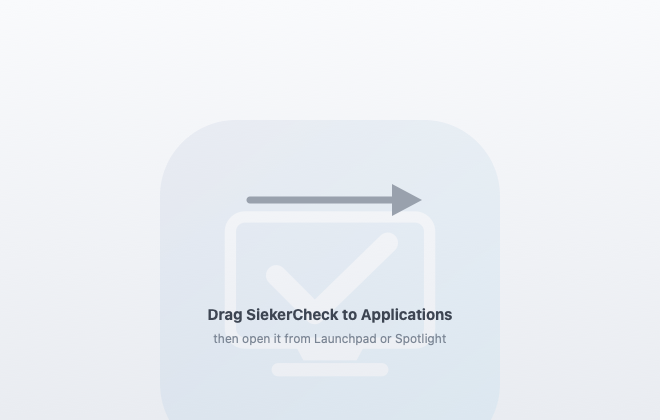
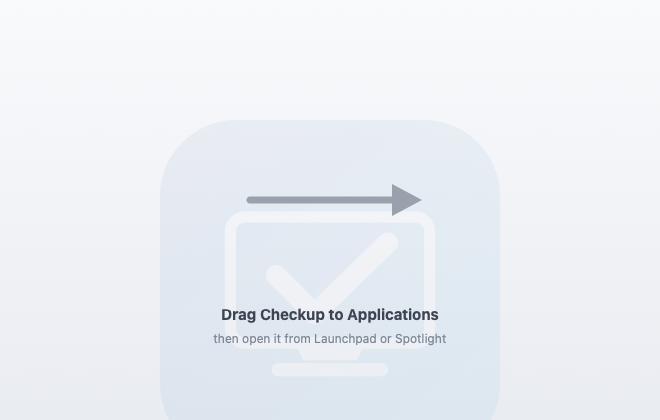
Rename to Checkup and fix the Network screen on Windows
The app is now Checkup throughout: bundle, identifier com.checkup.app, sources, installers and docs. The Windows renderer treated the async network IPC call as an array, so Promise.map threw and the Network screen never rendered; it now awaits the bridge. Adds the overview screenshot to the README.

Changed region(s): [[0.303, 0.7119, 0.697, 0.7738]]

diff --git a/windows/renderer/app.js b/windows/renderer/app.js
@@ -1,4 +1,4 @@
-// SiekerCheck renderer. Everything here uses browser APIs so it behaves the
+// Checkup renderer. Everything here uses browser APIs so it behaves the
 // same on Windows and, during development, anywhere else Electron runs.
 
 const CHECKS = [
@@ -26,7 +26,7 @@ const $ = (id) => document.getElementById(id);
 // browser - which is how most of it gets developed and checked - the OS-facing
 // calls report themselves unavailable instead of taking the whole page down.
 const unavailable = (what) => async () => ({ ok: false, error: what + ' needs the desktop app.' });
-const bridge = window.sieker || {
+const bridge = window.checkup || {
   systemInfo: async () => ({
     platform: 'browser', platformName: 'Browser', release: 'n/a', arch: 'n/a',
     hostname: location.host || 'local',
@@ -42,11 +42,11 @@ const bridge = window.sieker || {
 };
 
 let results = {};
-try { results = JSON.parse(localStorage.getItem('siekercheck.results') || '{}'); } catch { results = {}; }
+try { results = JSON.parse(localStorage.getItem('checkup.results') || '{}'); } catch { results = {}; }
 
 const statusOf = (id) => (results[id] && results[id].status) || 'Untested';
 const noteOf = (id) => (results[id] && results[id].note) || '';
-const save = () => localStorage.setItem('siekercheck.results', JSON.stringify(results));
+const save = () => localStorage.setItem('checkup.results', JSON.stringify(results));
 
 let current = 'overview';
 let guided = { active: false, index: 0 };
@@ -696,9 +696,10 @@ wire.network = () => {
   loadNetwork();
 };
 
-function loadNetwork() {
-  const rows = bridge.network();
-  $('net-list').innerHTML = rows.map((r) =>
+async function loadNetwork() {
+  // The bridge is an async IPC call, so this is a promise, not an array.
+  const rows = await bridge.network();
+  $('net-list').innerHTML = (rows || []).map((r) =>
     '<div class="k">' + r.name + ' \u2014 ' + r.family + '</div><div class="mono">' +
     r.address + (r.internal ? ' (internal)' : '') + '</div>').join('') ||
     '<div class="k">Interfaces</div><div>none reported</div>';
@@ -762,7 +763,7 @@ $('notes').addEventListener('input', (event) => {
 // Report -----------------------------------------------------------------
 
 function reportText() {
-  const lines = ['# SiekerCheck report', ''];
+  const lines = ['# Checkup report', ''];
   lines.push('**' + (systemSnapshot || 'Machine details unavailable') + '**');
   lines.push('');
   lines.push('| Check | Result | Notes |');

diff --git a/windows/main.js b/windows/main.js
@@ -1,4 +1,4 @@
-// SiekerCheck for Windows.
+// Checkup for Windows.
 //
 // The only OS-specific work lives here, behind IPC: WMI queries via PowerShell,
 // a disk speed test on the temp volume, and the plain Node facts. Everything
@@ -20,7 +20,7 @@ function createWindow() {
     height: 720,
     minWidth: 900,
     minHeight: 620,
-    title: 'SiekerCheck',
+    title: 'Checkup',
     backgroundColor: '#f4f5f7',
     webPreferences: {
       preload: path.join(__dirname, 'preload.js'),
@@ -70,7 +70,7 @@ function registerIpc() {
 
   ipcMain.handle('storage:benchmark', async (_event, megabytes) => {
     const size = Math.max(1, Number(megabytes) || 64) * 1000 * 1000;
-    const file = path.join(os.tmpdir(), 'siekercheck-speedtest.bin');
+    const file = path.join(os.tmpdir(), 'checkup-speedtest.bin');
 
     // A repeating pattern rather than zeros, so the read-back check means
     // something.

diff --git a/Sources/Checkup/Core/StorageBenchmark.swift b/Sources/Checkup/Core/StorageBenchmark.swift
@@ -10,10 +10,10 @@ enum StorageBenchmark {
         let verified: Bool
     }
 
-    /// Runs the benchmark in `directory`, defaulting to a SiekerCheck folder in
+    /// Runs the benchmark in `directory`, defaulting to a Checkup folder in
     /// the temporary directory. Returns nil if the file could not be written.
     static func run(megabytes: Int = 64, in directory: URL? = nil) -> Result? {
-        let target = directory ?? FileManager.default.temporaryDirectory.appendingPathComponent("SiekerCheck", isDirectory: true)
+        let target = directory ?? FileManager.default.temporaryDirectory.appendingPathComponent("Checkup", isDirectory: true)
         try? FileManager.default.createDirectory(at: target, withIntermediateDirectories: true)
         let file = target.appendingPathComponent("speedtest.bin")
         let byteCount = max(1, megabytes) * 1_000_000

diff --git a/Sources/Checkup/Checks/DisplayCheckView.swift b/Sources/Checkup/Checks/DisplayCheckView.swift
@@ -70,7 +70,7 @@ final class PixelCanvasView: NSView {
         super.viewDidMoveToWindow()
         // Name the first colour straight away so the very first frame is
         // labelled too, not only the ones reached by advancing.
-        window?.title = "SiekerCheck pixel test — \(PixelSequence.color(at: index).name)"
+        window?.title = "Checkup pixel test — \(PixelSequence.color(at: index).name)"
     }
 
     override func draw(_ dirtyRect: NSRect) {
@@ -92,7 +92,7 @@ final class PixelCanvasView: NSView {
 
     func advance() {
         index = PixelSequence.nextIndex(after: index)
-        window?.title = "SiekerCheck pixel test — \(PixelSequence.color(at: index).name)"
+        window?.title = "Checkup pixel test — \(PixelSequence.color(at: index).name)"
         needsDisplay = true
     }
 }

diff --git a/Sources/Checkup/Checks/MicrophoneCheckView.swift b/Sources/Checkup/Checks/MicrophoneCheckView.swift
@@ -32,7 +32,7 @@ struct MicrophoneCheckView: View {
                     Text(mic.statusText).font(.callout).foregroundStyle(.secondary)
 
                     if let granted = mic.permissionGranted, !granted {
-                        Label("Microphone access is denied. Open System Settings › Privacy & Security › Microphone and enable SiekerCheck.",
+                        Label("Microphone access is denied. Open System Settings › Privacy & Security › Microphone and enable Checkup.",
                               systemImage: "exclamationmark.triangle")
                             .foregroundStyle(.orange)
                             .fixedSize(horizontal: false, vertical: true)

diff --git a/Sources/Checkup/RootView.swift b/Sources/Checkup/RootView.swift
@@ -21,7 +21,7 @@ struct RootView: View {
                 .tag(module)
             }
             .navigationSplitViewColumnWidth(min: 210, ideal: 230, max: 280)
-            .navigationTitle("SiekerCheck")
+            .navigationTitle("Checkup")
         } detail: {
             VStack(spacing: 0) {
                 if guided.isActive {
@@ -29,7 +29,7 @@ struct RootView: View {
                     Divider()
                 }
                 detail
-                    .navigationTitle(guided.selection?.title ?? "SiekerCheck")
+                    .navigationTitle(guided.selection?.title ?? "Checkup")
             }
         }
         .frame(minWidth: 900, minHeight: 620)

diff --git a/Sources/Checkup/CheckupApp.swift b/Sources/Checkup/CheckupApp.swift
@@ -2,7 +2,7 @@ import Foundation
 import SwiftUI
 
 @main
-struct SiekerCheckApp: App {
+struct CheckupApp: App {
     @StateObject private var progress = ProgressStore()
     @StateObject private var guided = GuidedSession()
 
@@ -23,7 +23,7 @@ struct SiekerCheckApp: App {
                 .environmentObject(guided)
         }
         .commands {
-            // SiekerCheck is a single-purpose test tool; a "New window" item would
+            // Checkup is a single-purpose test tool; a "New window" item would
             // only spawn a second copy of the checklist.
             CommandGroup(replacing: .newItem) {}
         }

diff --git a/Sources/Checkup/Checks/DashboardView.swift b/Sources/Checkup/Checks/DashboardView.swift
@@ -84,9 +84,9 @@ struct DashboardView: View {
 
     private func saveReport() {
         let panel = NSSavePanel()
-        panel.nameFieldStringValue = "SiekerCheck-report.md"
+        panel.nameFieldStringValue = "Checkup-report.md"
         panel.allowedContentTypes = [.plainText]
-        panel.title = "Save SiekerCheck report"
+        panel.title = "Save Checkup report"
         guard panel.runModal() == .OK, let url = panel.url else { return }
         do {
             try progress.markdownReport(machine: machine).write(to: url, atomically: true, encoding: .utf8)

diff --git a/scripts/make-dmg-background.swift b/scripts/make-dmg-background.swift
@@ -96,7 +96,7 @@ func makeBackground(scale: Int) -> CGImage? {
         CTLineDraw(line, ctx)
     }
 
-    caption("Drag SiekerCheck to Applications", y: 302, size: 15, emphasized: true,
+    caption("Drag Checkup to Applications", y: 302, size: 15, emphasized: true,
             color: CGColor(srgbRed: 0.24, green: 0.27, blue: 0.32, alpha: 1))
     caption("then open it from Launchpad or Spotlight", y: 328, size: 12, emphasized: false,
             color: CGColor(srgbRed: 0.48, green: 0.52, blue: 0.58, alpha: 1))

diff --git a/Sources/Checkup/Core/MicRecorder.swift b/Sources/Checkup/Core/MicRecorder.swift
@@ -19,7 +19,7 @@ final class MicRecorder: ObservableObject {
     private var meterTimer: Timer?
 
     private var fileURL: URL {
-        let dir = FileManager.default.temporaryDirectory.appendingPathComponent("SiekerCheck", isDirectory: true)
+        let dir = FileManager.default.temporaryDirectory.appendingPathComponent("Checkup", isDirectory: true)
         try? FileManager.default.createDirectory(at: dir, withIntermediateDirectories: true)
         return dir.appendingPathComponent("mic-test.m4a")
     }

diff --git a/windows/renderer/index.html b/windows/renderer/index.html
@@ -3,12 +3,12 @@
 <head>
   <meta charset="utf-8">
   <meta http-equiv="Content-Security-Policy" content="default-src 'self'; style-src 'self'; script-src 'self'">
-  <title>SiekerCheck</title>
+  <title>Checkup</title>
   <link rel="stylesheet" href="styles.css">
 </head>
 <body>
   <aside id="sidebar">
-    <h1>SiekerCheck</h1>
+    <h1>Checkup</h1>
     <nav id="nav"></nav>
     <div class="sidebar-foot">
       <button id="run-all" class="primary">Run all checks</button>

diff --git a/Sources/Checkup/Checks/TrackpadCheckView.swift b/Sources/Checkup/Checks/TrackpadCheckView.swift
@@ -16,7 +16,7 @@ final class TrackpadCanvasView: NSView {
         pressureConfiguration = NSPressureConfiguration(pressureBehavior: .primaryGeneric)
     }
 
-    required init?(coder: NSCoder) { fatalError("SiekerCheck builds its views in code") }
+    required init?(coder: NSCoder) { fatalError("Checkup builds its views in code") }
 
     override func draw(_ dirtyRect: NSRect) {
         NSColor.textBackgroundColor.setFill()
